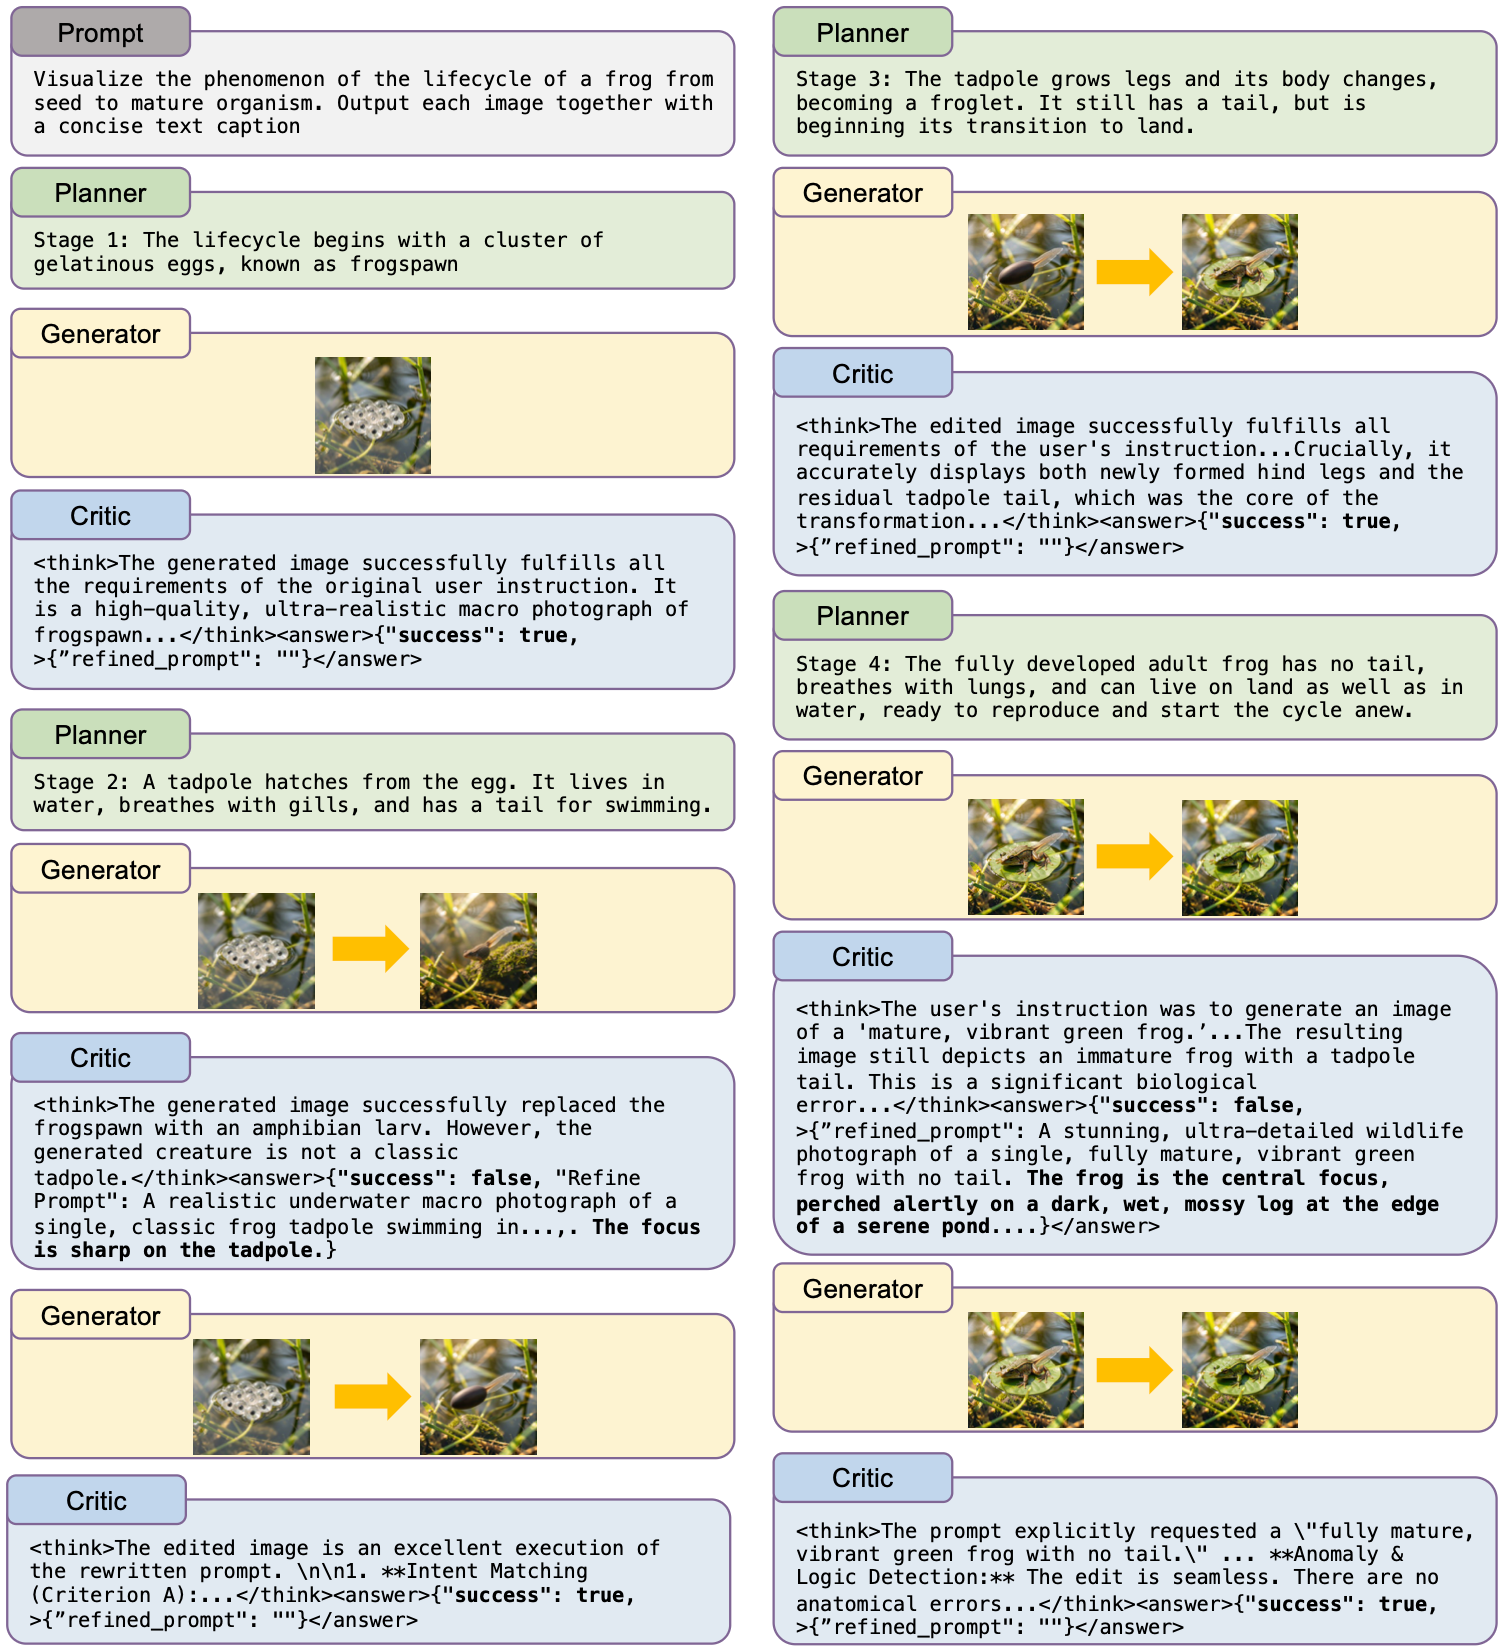
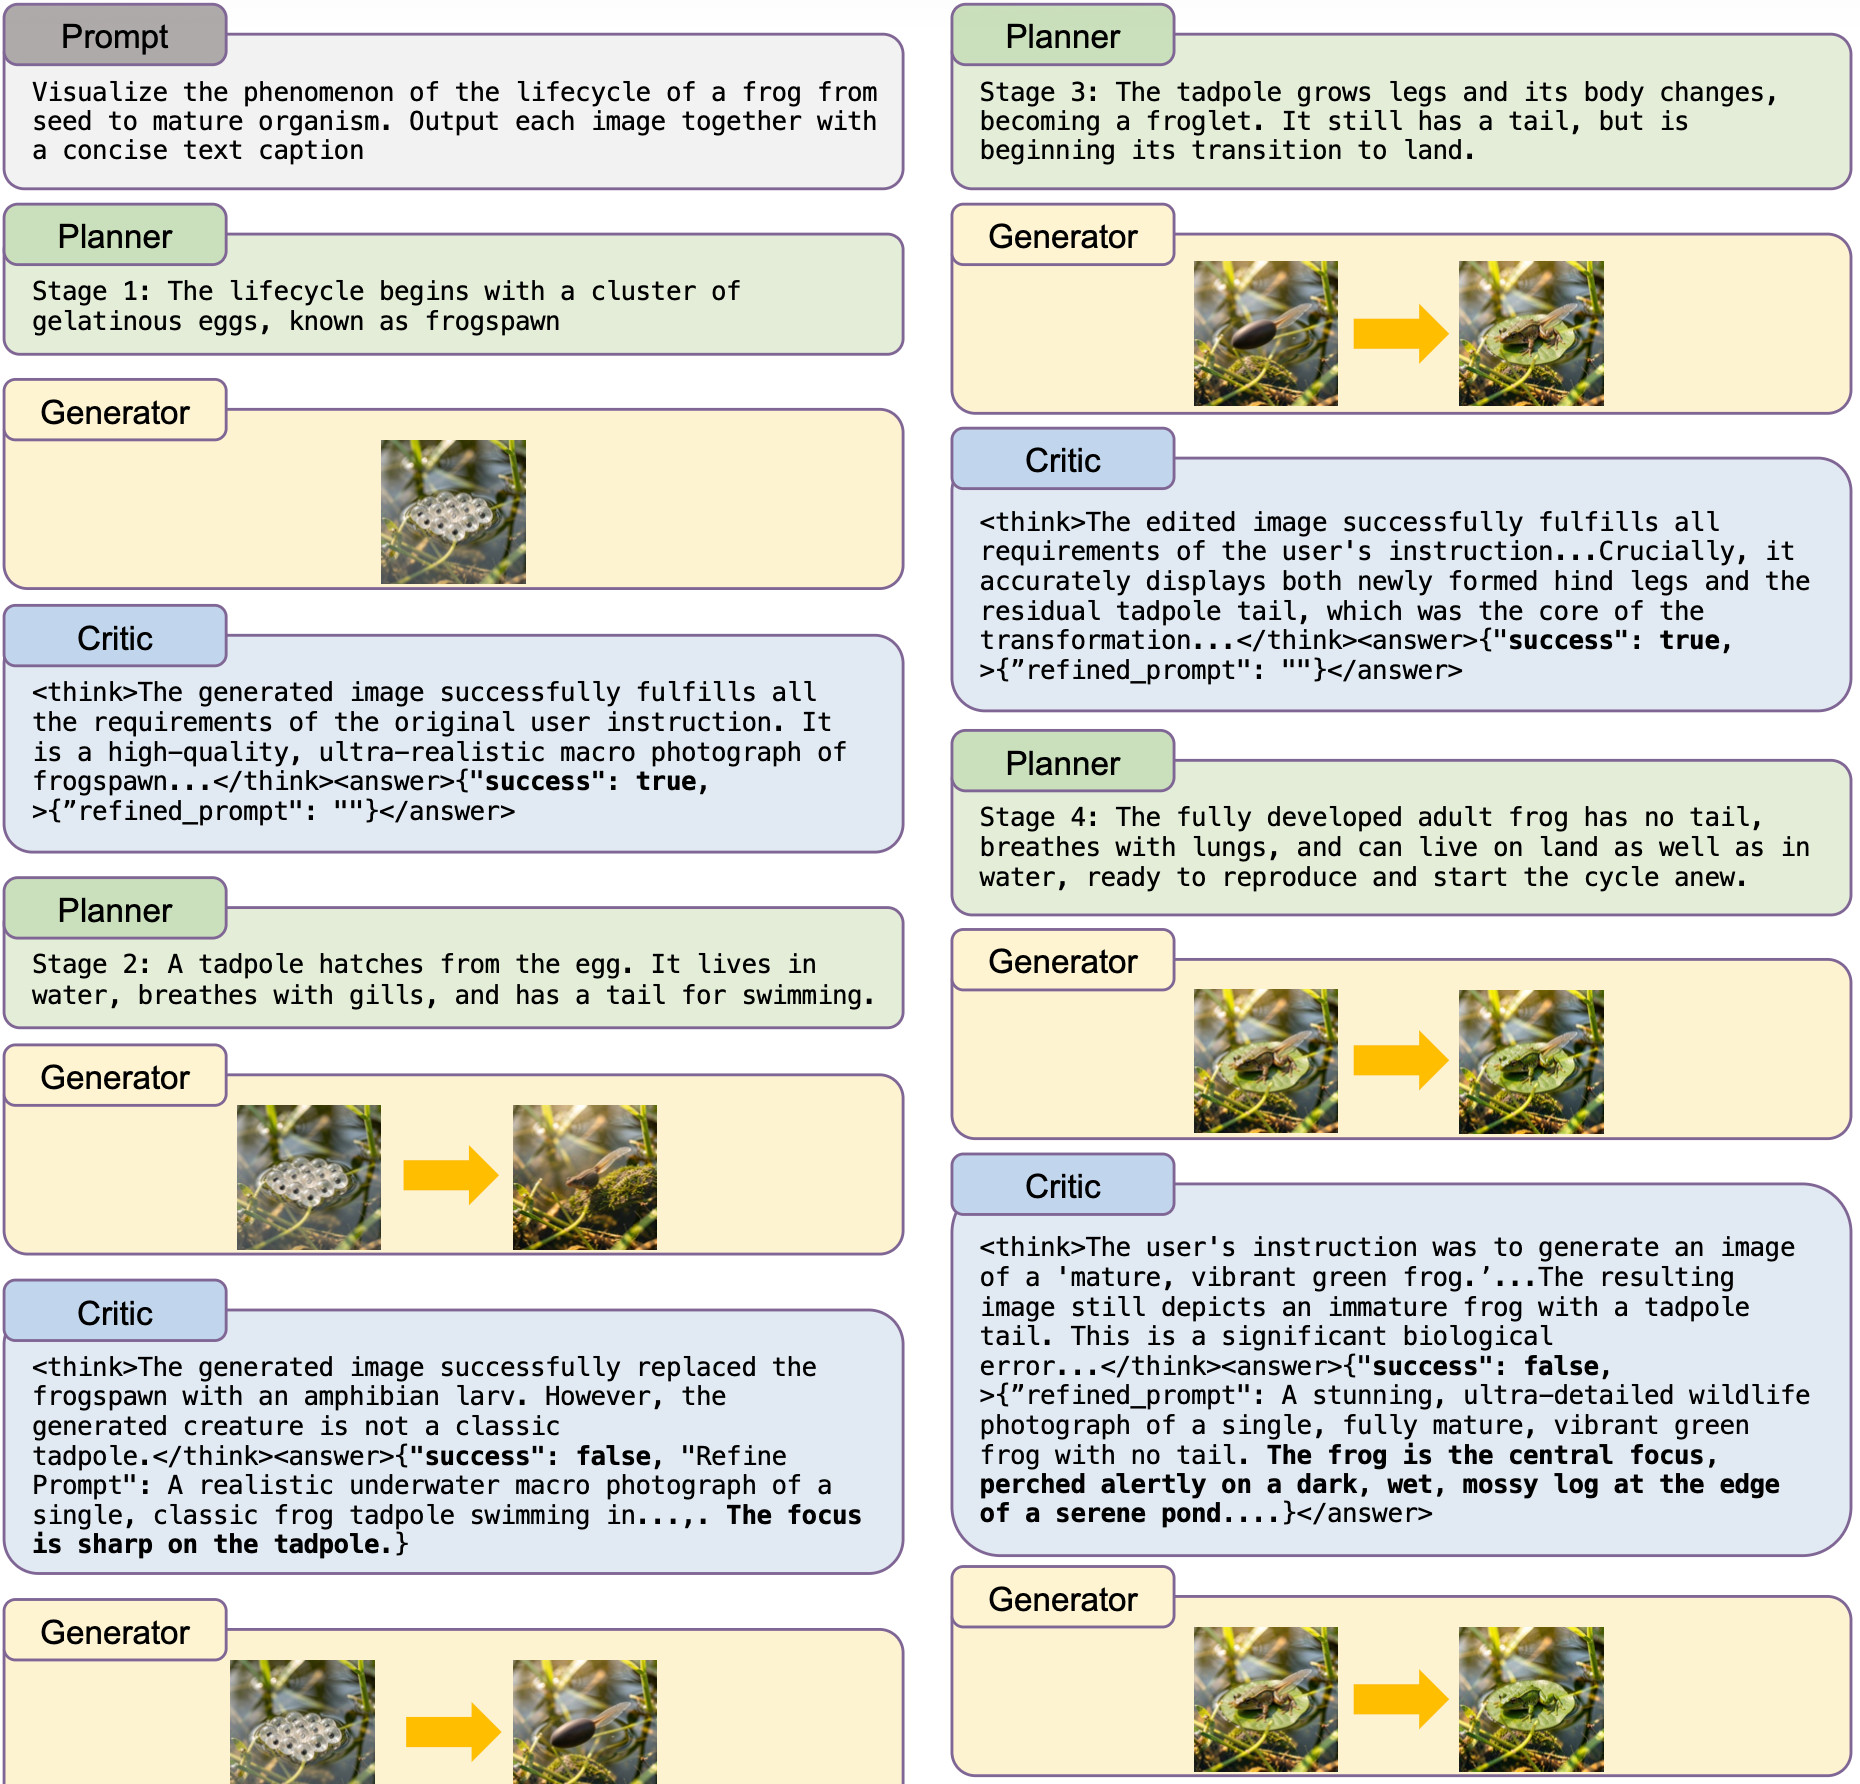
Initial commit.

diff --git a/README.md b/README.md
@@ -254,7 +254,7 @@ For the details, please refer to [UEval](https://github.com/zlab-princeton/UEval
 
 ### 📊 Interleaved Data Construction Pipeline
 
-We provide our raw data construction pipeline and how to use the data to construct interleaved sequence for UMM training. Please refer to [DATA](https://github.com/zhengdian1/meituan/tree/main/InterleaveThinker/data_gen/README.md)
+We provide our raw data construction pipeline and how to use the data to construct interleaved sequence for UMM training. Please refer to [DATA](https://github.com/zhengdian1/InterleaveThinker/blob/main/data_gen/README.md)
 
 ## Acknowledgements
 